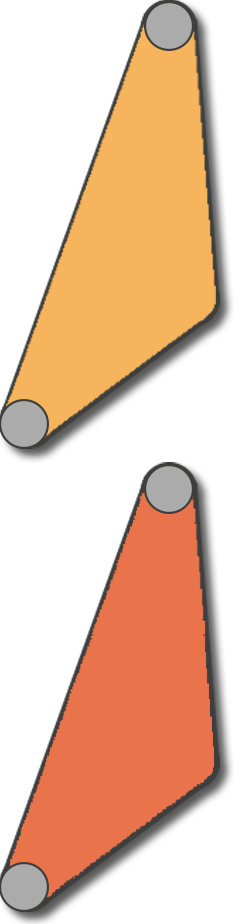
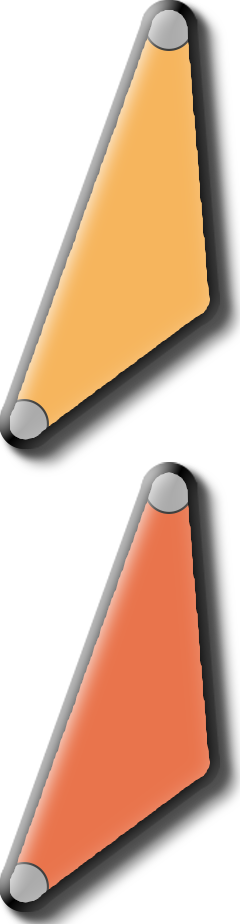
update spring sprite, clean code, add new springs

Changed region(s): [[0.0, 0.0, 1.0, 0.5152], [0.0, 0.4848, 1.0, 1.0]]

diff --git a/Source/SceneGame.cpp b/Source/SceneGame.cpp
@@ -20,8 +20,6 @@ bool SceneGame::Start()
 {
 	_app->gameOver = false;
 
-	
-
 	// Create Map
 	CreateMap();
 
@@ -80,17 +78,22 @@ bool SceneGame::Start()
 	// Boss
 	boss = new Boss(100000, "Boss", "Boss", _app);
 
-	// Spring
-	spring = new Spring(iPoint(513, 827), "Spring", "Spring", _app);
+	// Springs
+	spring = new Spring(iPoint(514, 829), "Spring", "Spring", _app, SDL_SCANCODE_SPACE);
+	springR = new Spring(iPoint(469, 825), "SpringR", "Spring", _app, SDL_SCANCODE_SPACE, false);
+	springL = new Spring(iPoint(74, 825), "SpringL", "Spring", _app, SDL_SCANCODE_SPACE, false);
 
 	// Sensor
-	sBallSpring = new Sensor({ 533, 805, 10, 10 }, -1, "SensorBS", "Sensor", _app);
+	sBallSpring = new Sensor({ 533, 815, 10, 5 }, -1, "SensorBS", "SpringSensor", _app);
+	sBallSpringR = new Sensor({ 488, 815, 10, 5 }, -1, "SensorBSR", "SpringSensor", _app);
+	sBallSpringL = new Sensor({ 93, 815, 10, 5 }, -1, "SensorBSL", "SpringSensor", _app);
+
 	sTeleportIn = new Sensor({ 90, 415, 10,10 }, -1, "SensorT", "Sensor", _app);
 	Cannon1 = new Sensor({ 107,288,10,10 }, -1, "SensorC1", "Sensor", _app);
 	Cannon2 = new Sensor({ 166,288,10,10 }, -1, "SensorC2", "Sensor", _app);
 	Cannon3 = new Sensor({ 227,288,10,10 }, -1, "SensorC3", "Sensor", _app);
 
-	deathSensor = new Sensor({ 288, 900, 68, 30 }, -1, "DeathSensor", "Sensor", _app);
+	deathSensor = new Sensor({ 288, 935, 68, 1 }, -1, "DeathSensor", "Sensor", _app);
 
 #pragma region Add gameObjects to the main array
  
@@ -106,7 +109,11 @@ bool SceneGame::Start()
 	gameObjects.add(bossBoing[3]);
 	gameObjects.add(boss);
 	gameObjects.add(spring);
+	gameObjects.add(springR);
+	gameObjects.add(springL);
 	gameObjects.add(sBallSpring);
+	gameObjects.add(sBallSpringR);
+	gameObjects.add(sBallSpringL);
 	gameObjects.add(deathSensor);
 	gameObjects.add(Cannon1);
 	gameObjects.add(Cannon2);

diff --git a/Source/Spring.cpp b/Source/Spring.cpp
@@ -1,15 +1,25 @@
 #include "Spring.h"
 
-Spring::Spring(iPoint pos, std::string name, std::string tag, Application* _app) : GameObject(name, tag, _app)
+Spring::Spring(iPoint pos, std::string name, std::string tag, Application* _app, uint key, bool isInitSprint) : GameObject(name, tag, _app)
 {
 	// Create RenderObject
-	renderObjects[0].texture = _app->textures->Load("Assets/Images/Game/Spring.png");
+	if(isInitSprint)
+	{
+		renderObjects[0].texture = _app->textures->Load("Assets/Images/Game/Spring.png");
+	}
+	else
+	{
+		renderObjects[0].texture = _app->textures->Load("Assets/Images/Game/Spring2.png");
+	}	
+
 	renderObjects[0].renderRect.x = pos.x;
 	renderObjects[0].renderRect.y = pos.y;
 	renderObjects[0].scale = 0.65f;
 	renderObjects[0].layer = 1;
 	
 	defaultYPos = pos.y;
+
+	springKey = key;
 }
 
 void Spring::Start()
@@ -18,11 +28,11 @@ void Spring::Start()
 
 void Spring::Update()
 {
-	if (_app->input->GetKey(SDL_SCANCODE_SPACE) == KEY_REPEAT)
+	if (_app->input->GetKey(springKey) == KEY_REPEAT)
 	{
-		renderObjects[0].renderRect.y += renderObjects[0].renderRect.y >= defaultYPos+30 ? 0 : 1;
+		renderObjects[0].renderRect.y += renderObjects[0].renderRect.y >= defaultYPos + 40 ? 0 : 1;
 	}
-	if (_app->input->GetKey(SDL_SCANCODE_SPACE) == KEY_UP)
+	if (_app->input->GetKey(springKey) == KEY_UP)
 	{
 		renderObjects[0].renderRect.y = defaultYPos;
 	}

diff --git a/Source/Ball.cpp b/Source/Ball.cpp
@@ -71,8 +71,7 @@ void Ball::Update()
 {
     if (_app->input->GetKey(SDL_SCANCODE_SPACE) == KEY_REPEAT)
     {
-        impulseForce+= impulseForce >= 1200 ? 0 : 20;
-       
+        impulseForce+= impulseForce >= 1200 ? 0 : 20;   
     }
     else if (_app->input->GetKey(SDL_SCANCODE_SPACE) == KEY_UP)
     {
@@ -126,7 +125,7 @@ void Ball::OnCollision(PhysBody* col)
 {
     if (col->gameObject == nullptr) return;
 
-    if (col->gameObject->name == "SensorBS")
+    if (col->gameObject->CompareTag("SpringSensor"))
     {
         initialSpring = true;
     }

diff --git a/Source/SceneGame.h b/Source/SceneGame.h
@@ -66,6 +66,8 @@ public:
     Boss* boss;
 
     Spring* spring;
+    Spring* springR;
+    Spring* springL;
 
     PhysLayerL* physLayer;
     PhysLayerR* physLayer2;
@@ -75,6 +77,8 @@ public:
     Cannon* cannon;
 
     Sensor* sBallSpring;
+    Sensor* sBallSpringR;
+    Sensor* sBallSpringL;
     Sensor* sTeleportIn;
     Sensor* Cannon1;
     Sensor* Cannon2;

diff --git a/Source/Spring.h b/Source/Spring.h
@@ -5,8 +5,10 @@ class Spring : public GameObject
 private:
 	int defaultYPos;
 
+	uint springKey;
+
 public:
-	Spring(iPoint pos, std::string name, std::string tag, Application* _app);
+	Spring(iPoint pos, std::string name, std::string tag, Application* _app, uint key, bool isInitSprint = true);
 
 	void Start() override;
 

diff --git a/Source/Sensor.cpp b/Source/Sensor.cpp
@@ -8,5 +8,5 @@ Sensor::Sensor(SDL_Rect rect, int layer, std::string name, std::string tag, Appl
 
 void Sensor::OnCollision(PhysBody* col)
 {
-	printf("SensorCol");
+	//printf("SensorCol\n");
 }
